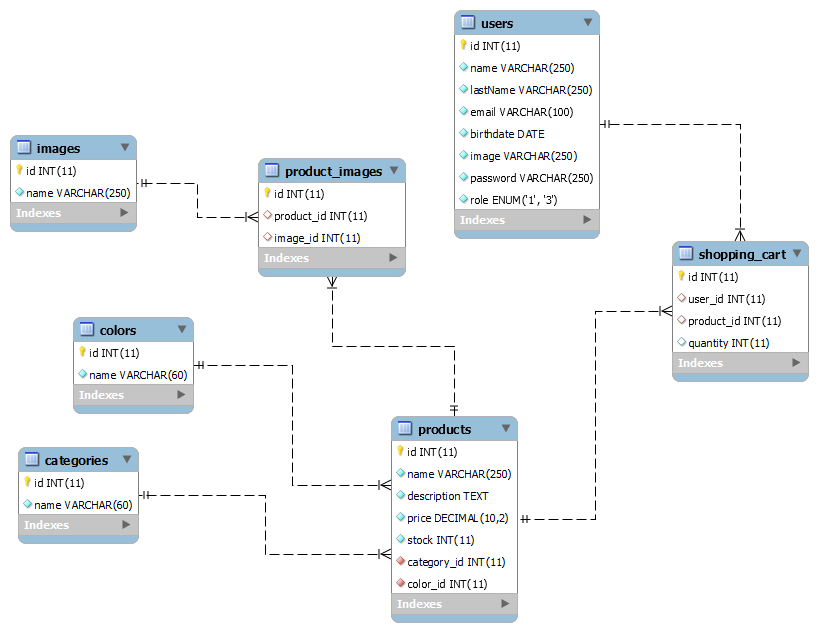
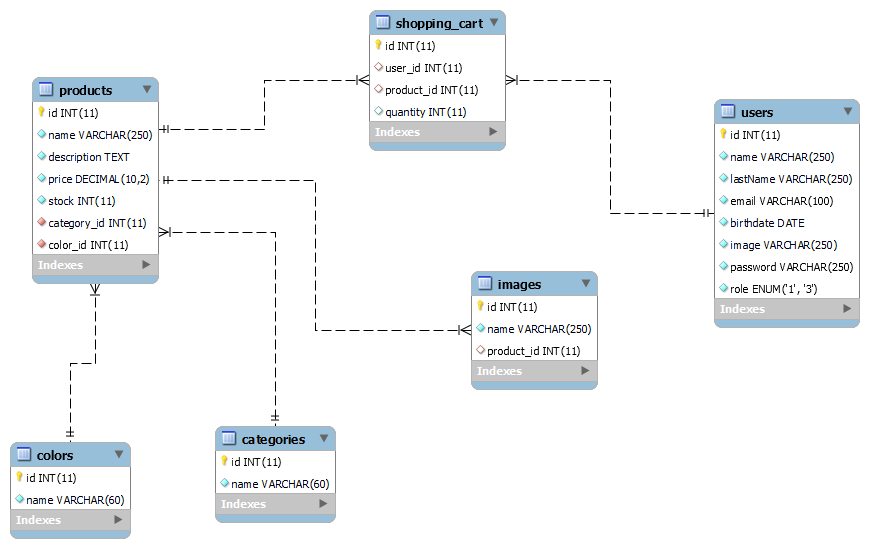
DB-Prod-Create

diff --git a/src/services/adminService.js b/src/services/adminService.js
@@ -5,23 +5,35 @@ const db = require ("../database/models");
 const Op = db.Sequelize.Op;
 
 let adminService = {
-
-    create: async function (body, file) {
+    getAll: async () => {
         try {
-            return await db.Productos.create({
-                name: body.name, 
-                price: body.price, 
-                discount: body.discount,
-                stock: body.stock,            
-                description: body.description,
-                image: file.filename,
-                category: body.category
-            }) //esta es la promesa
+            const categorias = await db.Categorias.findAll()
+            const colores = await db.Colores.findAll()
+            return {categorias, colores}
         } catch (error) {
-            console.log(error)
+            console.error('Erro en Categorias y/o Colores:', error);
+            res.status(500).send('Internal Server Error');
         }
     },
-    update: async function (body,/* file */ params) {
+    
+    createProduct: async function(newProduct, newImage){
+        try {
+            let product = new Producto(newProduct);
+
+            let addProduct = await db.Productos.create(product, {include:[{association: "producto"},{association: "colores"},{association: "categorias"}]})
+            
+            const imagePromises = newImage.map(file => {
+                return db.Images.create({ name: file.filename, product_id: addProduct.id });
+            });
+            await Promise.all(imagePromises);
+            return addProduct.dataValues
+        } catch (error) {
+            console.error('Error en Creacion Producto:', error);
+            res.status(500).send('Internal Server Error');
+        } 
+    },
+    
+    update: async function (body,/* file */ params) { 
             try {
                 return await db.Productos.update({
                     name: body.name, 
@@ -50,14 +62,18 @@ let adminService = {
     }
 };
 
-function Producto({name, price, discount, stock, description, image, category}){
+function Producto({name, description, price, stock, categorias, colores,}){
     this.name = name;
-    this.price = price;
-    this.discount = discount;
-    this.stock = stock;
     this.description = description;
-    this.image = image;
-    this.category = category;
+    this.price = price;
+    this.stock = stock;
+    this.category_id = categorias;
+    this.color_id = colores;
+    
+};
+function Imagenes({name,productosId}){
+    this.name= name;
+    this.product_id = productosId;
 };
 
 module.exports = adminService;

diff --git a/src/controllers/productsController.js b/src/controllers/productsController.js
@@ -34,53 +34,9 @@ const productsController = {
         }
     },
 
-    // All products
-    indexx: (req, res) => {
-         res.render("products/productAll.ejs", {products : productService.getAll( )});
-    },  
-
-    // Detail products
-    detaill: (req, res) => {
-        const id = productService.locationProduct(req.params.id);
-        if (id == -1){
-            res.status(404).render("error404.ejs")
-        } else {
-            res.render("products/productDetail.ejs", {product :productService.getOneBy(req.params.id)});
-        }
-    },
-
     // Cart products
     getCart: (req,res)=> {res.render("products/productCart.ejs")},
     
 };
 
 module.exports = productsController;
-
- /* update: (req,res)=> {
-        const product = searchProductById(req.params.id)
-        if (!product) {
-            res.status(404).send("Product not found");
-        }
-        res.render("products/product.ejs", { product });
-    } */
-
-/* function searchProductById(id) {
-    const products = require(path.join(__dirname, '../model/products.json'))
-    const productJson = products.find(product => product.id == id)
-    if (!productJson) {
-        return null
-    }
-    const product = new Product(productJson.id, productJson.name, productJson.description, productJson.price, productJson.images, productJson.category, productJson.colors, productJson.stock)
-    return product
-}
-
-function Product(id, name, description, price, images, category, colors, stock) {
-    this.id = id
-    this.name = name
-    this.description = description
-    this.price = price
-    this.images = images
-    this.category = category
-    this.colors = colors
-    this.stock = stock    
-} */

diff --git a/src/controllers/adminController.js b/src/controllers/adminController.js
@@ -1,7 +1,10 @@
 const fs = require('fs');
 const path = require('path');
 
-const adminService = require('../model/adminService');
+const db = require ("../database/models");
+const Op = db.Sequelize.Op;
+
+const adminService = require ('../services/adminService');
 
 const adminController = { 
 
@@ -9,12 +12,25 @@ const adminController = {
     start: (req,res) =>{res.render("products/productsAdmin.ejs")},
 
     //Create products form
-    create: (req,res)=> {
-        res.render("products/productCreate.ejs");
+
+    create: async (req, res) => {
+        try {
+            const {categorias, colores} = await adminService.getAll() //esta es la promesa
+            res.render("products/productCreate.ejs", {categorias, colores});
+        } catch (error) {
+            console.error('Error fetching categories and colors:', error);
+            res.status(500).send('Internal Server Error');
+        }
     },
+    
     // Create products button
-    store:(req, res) => {
-        res.render("products/productsAdmin.ejs",{product: adminService.createProduct(req.params.id, req.body, req.files)});
+    store: async function (req,res) {
+        try {   
+            await adminService.createProduct(req.body, req.files);
+            res.redirect(`/admin`);
+        } catch (error) {
+            res.send(error);
+        } 
     },
 
     // Edit products form

diff --git a/src/database/models/Images.js b/src/database/models/Images.js
@@ -10,7 +10,15 @@ module.exports = (Sequelize, DataTypes) => {
         name:{
             type: DataTypes.STRING,
             allowNull: false   
-        }
+        }, 
+        product_id:{
+            type: DataTypes.INTEGER,
+            allowNull: false,
+            references: {
+                model: 'Productos',
+                key: 'id'
+            }  
+        }, 
     };
 
     let config ={
@@ -20,12 +28,8 @@ module.exports = (Sequelize, DataTypes) => {
     const Images = Sequelize.define(alias, cols, config);
 
     Images.associate = (models) => {
-        Images.belongsToMany(models.Productos, {
-            as:"imagenes",
-            through: "product_images",
-            foreignKey: "image_id",
-            otherKey:"product_id",
-            timestamps: false
+        Images.belongsTo(models.Productos, {
+            foreignKey: "product_id",
         })
     }
 

diff --git a/src/database/models/Producto.js b/src/database/models/Producto.js
@@ -32,12 +32,9 @@ module.exports = (Sequelize, DataTypes) => {
     const Products = Sequelize.define(alias, cols, config);
     
     Products.associate = (models) => {
-        Products.belongsToMany(models.Images, {
+        Products.hasMany(models.Images, {
             as:"producto",
-            through: "product_images",
-            foreignKey: "product_id",
-            otherKey:"image_id",
-            timestamps: false
+            foreignKey: "product_id", 
         })
     
         Products.belongsTo(models.Colores, {

diff --git a/src/middlewares/multerMiddlewares.js b/src/middlewares/multerMiddlewares.js
@@ -10,7 +10,7 @@ const diskStorage = multer.diskStorage({
         cb(null, imageName);
     }
 });
-const uploadFile = multer({ storage: diskStorage}).array('images');
+const uploadFile = multer({ storage: diskStorage, limits: {files: 9}}).array('images', 9);
 
 module.exports = uploadFile;
 

diff --git a/src/services/productService.js b/src/services/productService.js
@@ -8,7 +8,6 @@ let productsService = {
             .then(productos => { //en productos entra la promesa
                 resolve(productos)
             })
-
             .catch (err => {
                 console.log(err);
                 reject ([])
